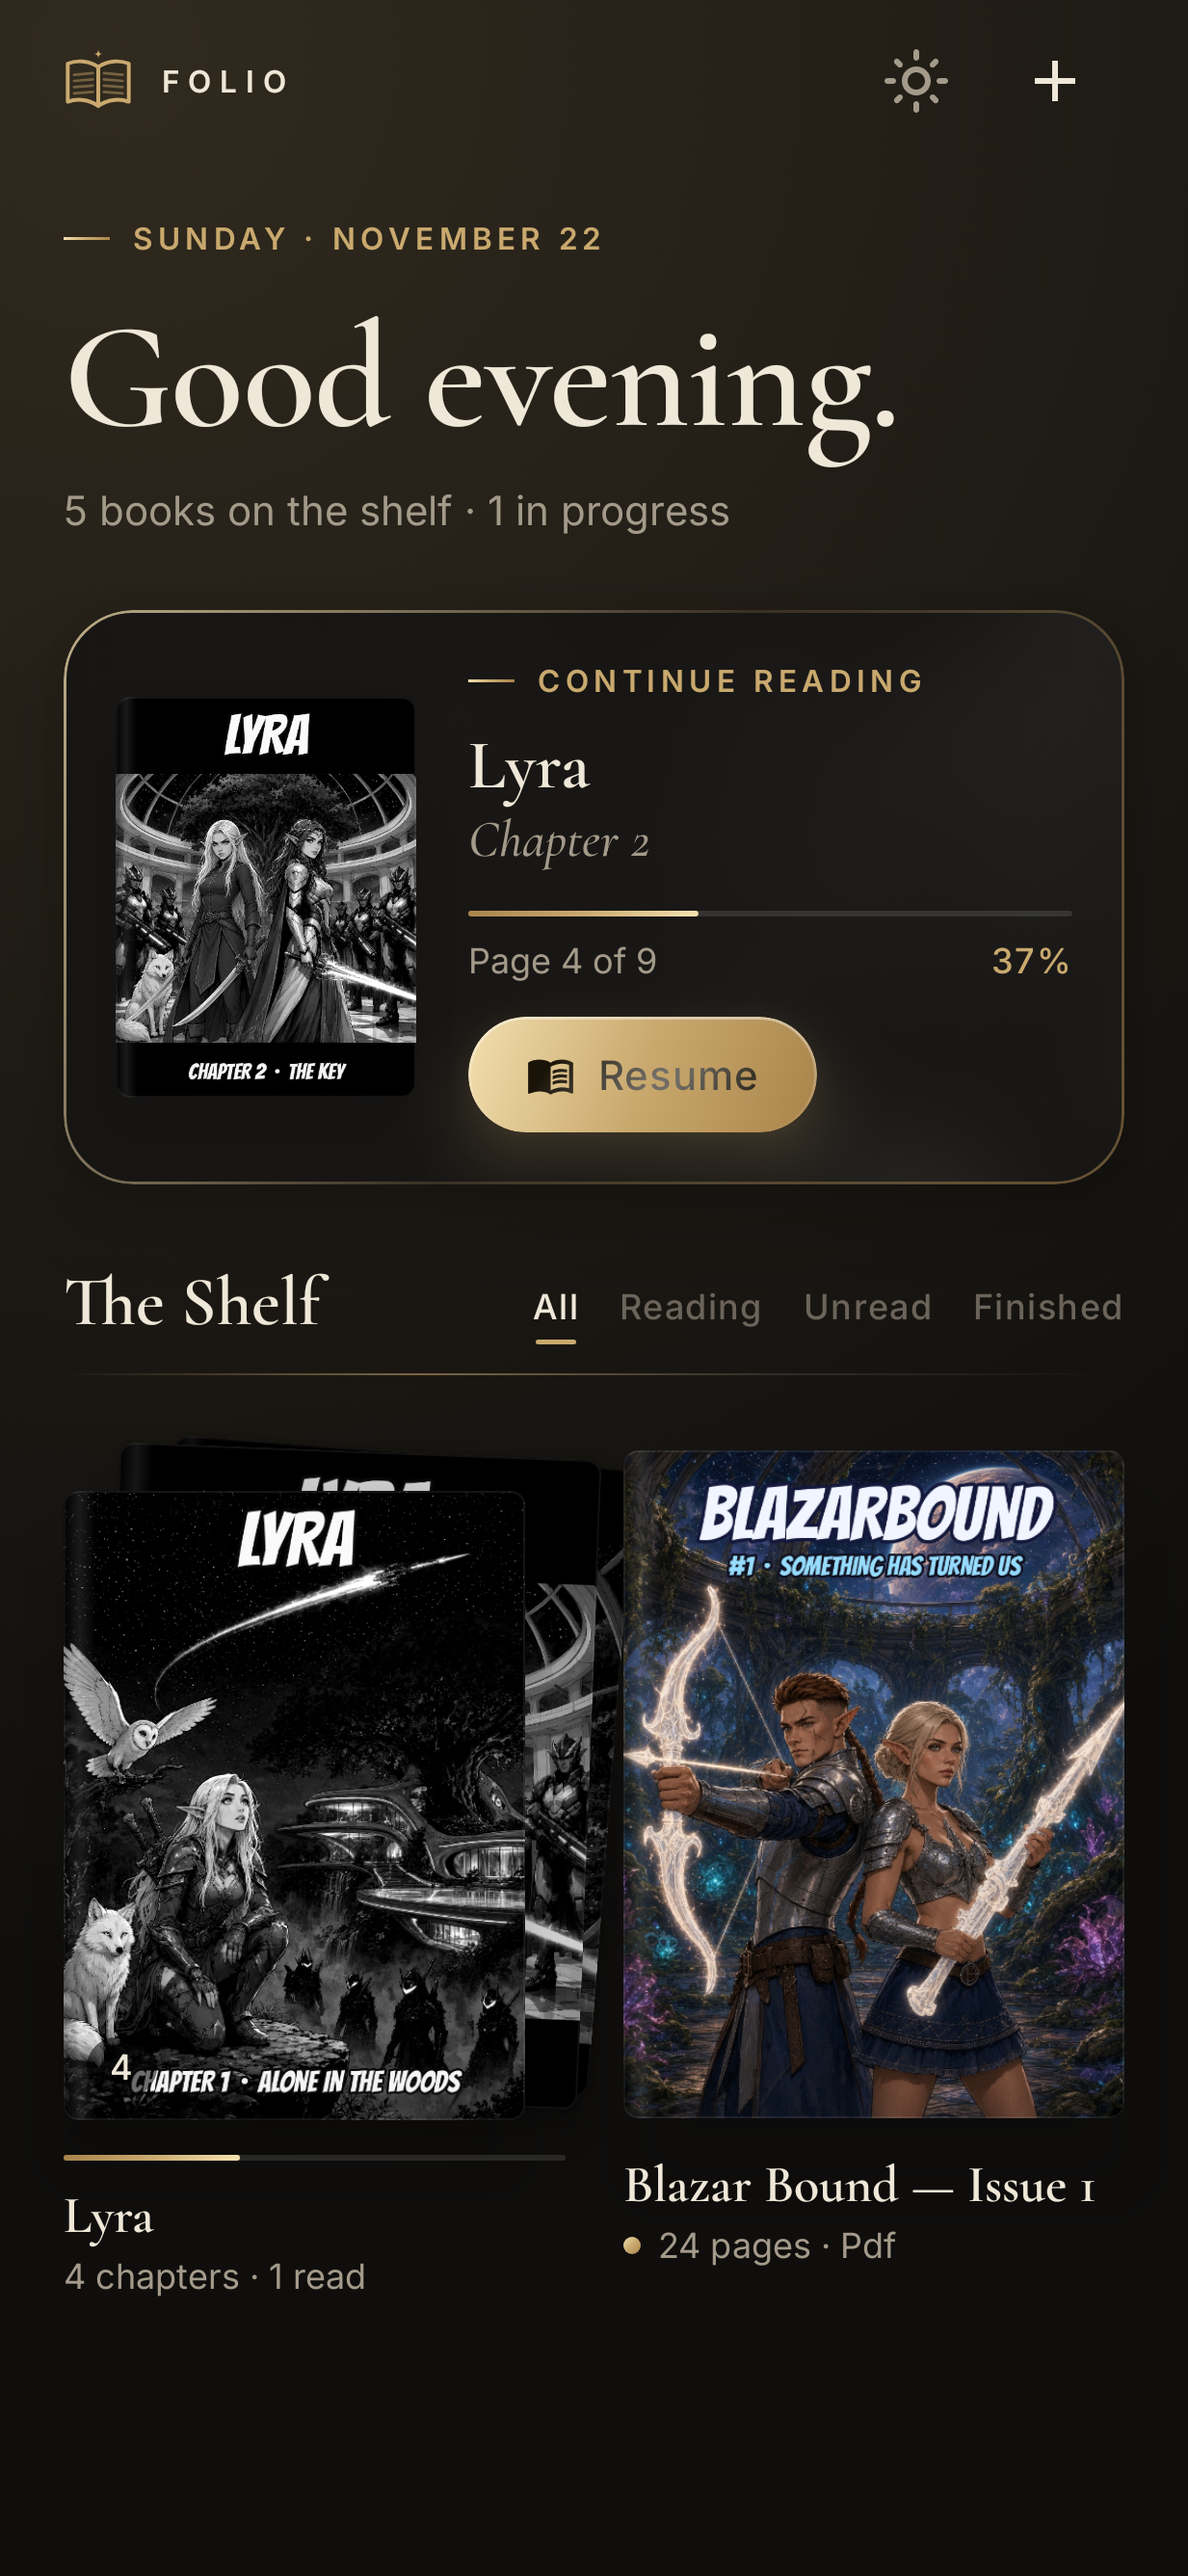
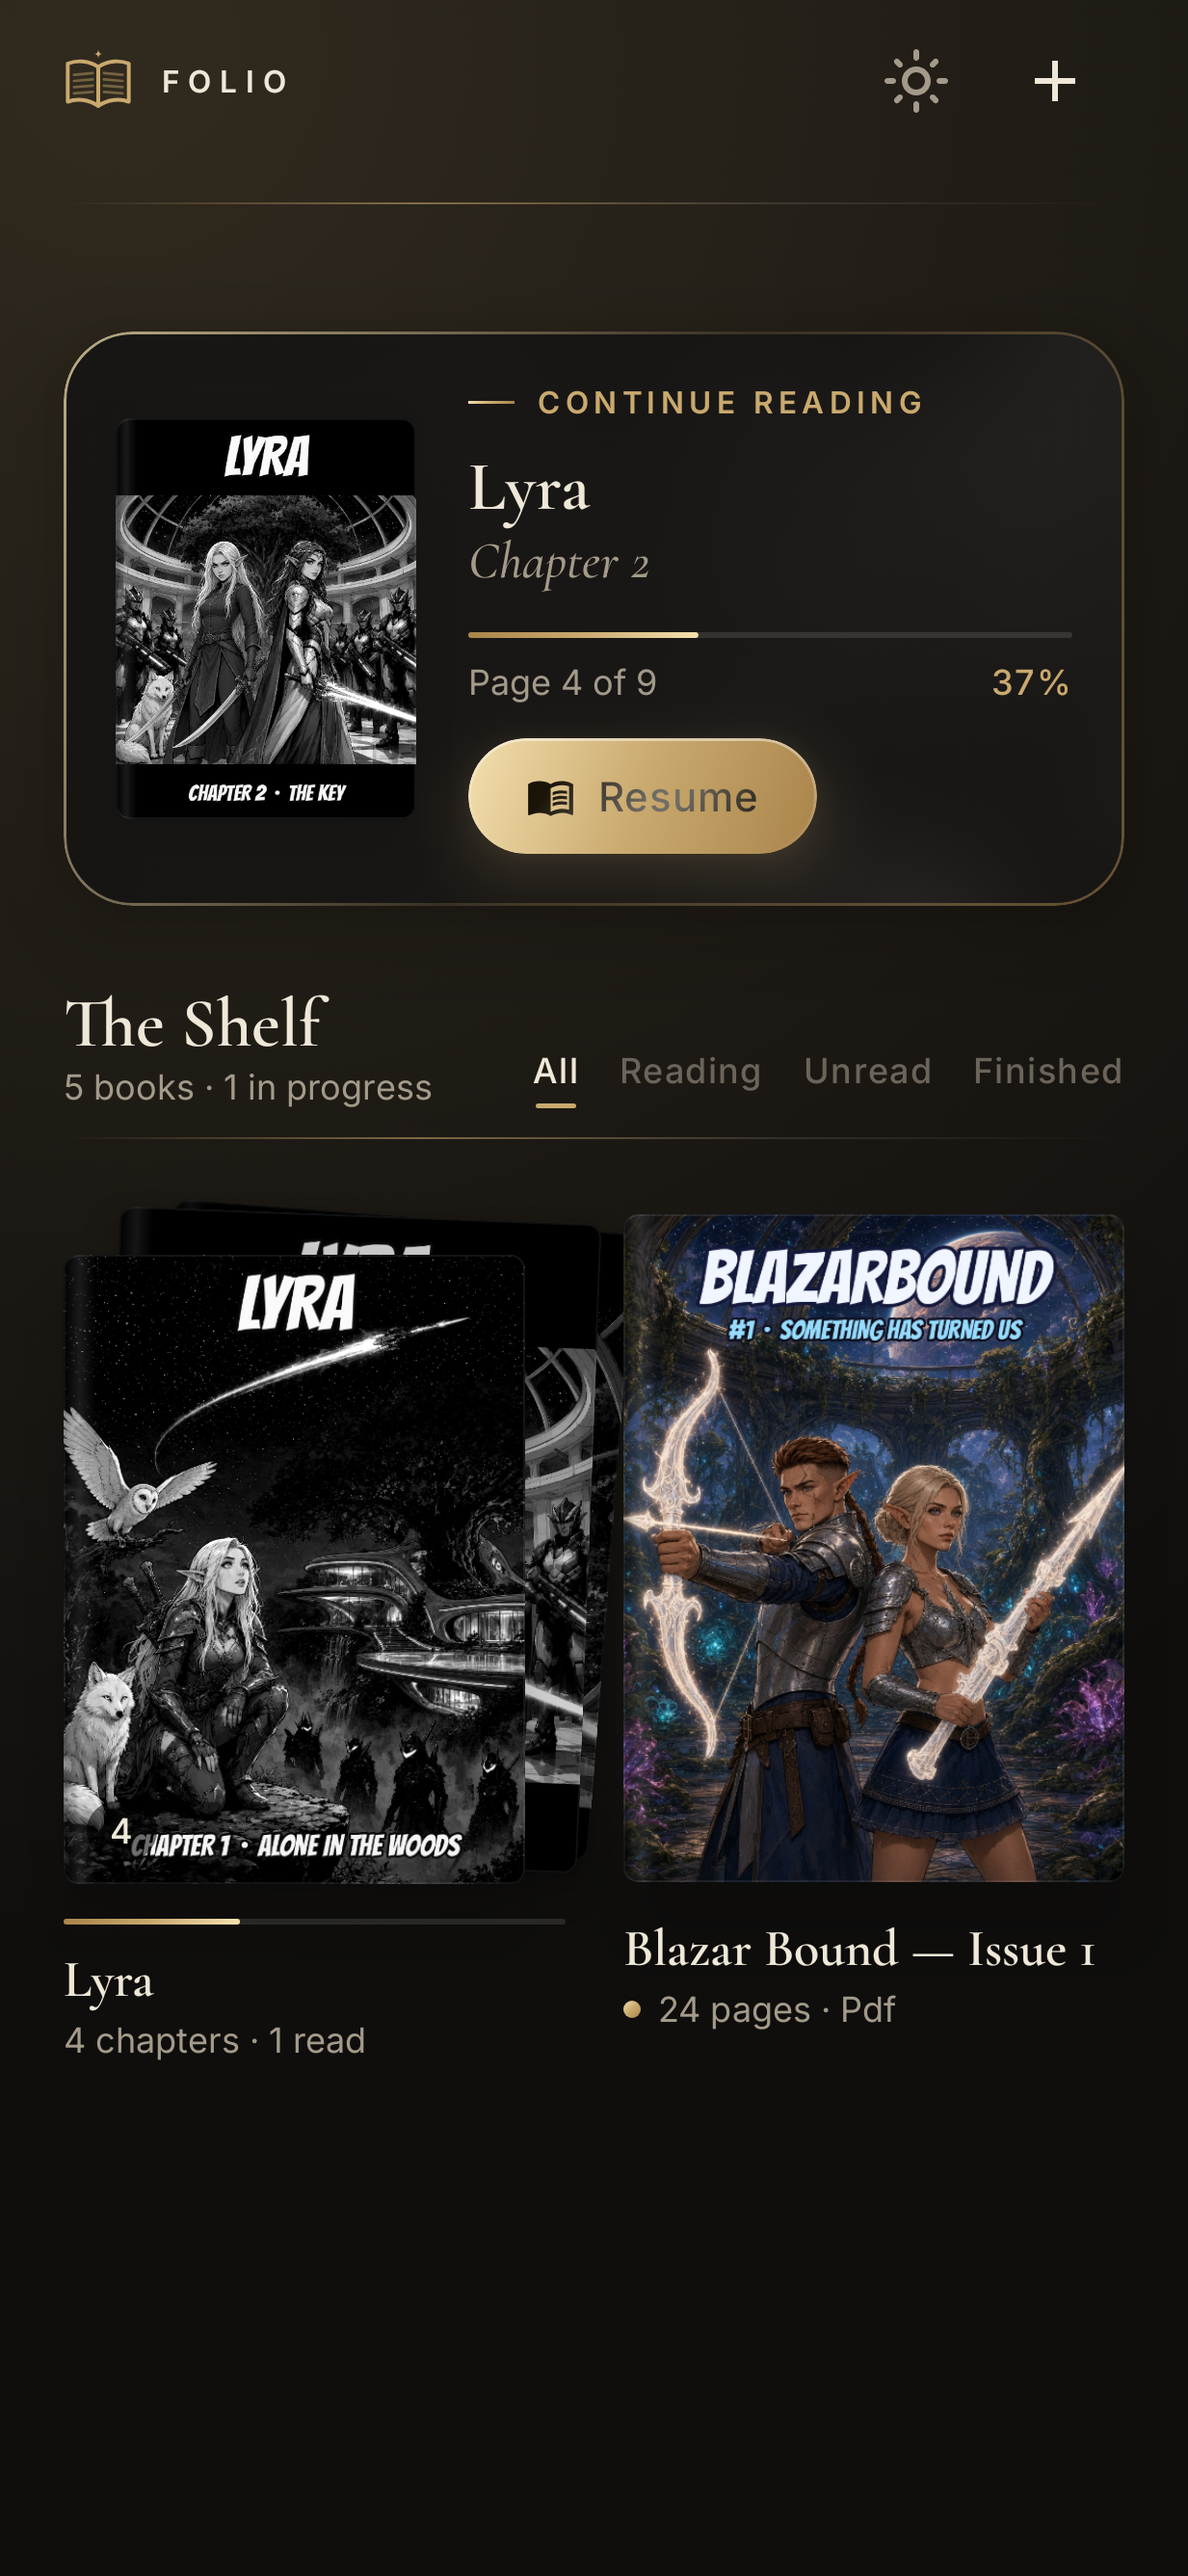
Shelf header: drop the time-of-day greeting and date line; FOLIO wordmark + gold rule lead into Continue Reading; book count moves under The Shelf
Refreshed polish_after shots and contact sheet (tools/contact_sheet.py).

diff --git a/app/src/main/java/net/blazarforce/folio/ui/library/LibraryScreen.kt b/app/src/main/java/net/blazarforce/folio/ui/library/LibraryScreen.kt
@@ -97,7 +97,6 @@ import net.blazarforce.folio.ui.common.springPress
 import net.blazarforce.folio.ui.common.staggeredEntrance
 import androidx.compose.foundation.lazy.grid.itemsIndexed
 import net.blazarforce.folio.ui.theme.LocalPalette
-import java.util.Calendar
 
 enum class ShelfFilter(val label: String) { ALL("All"), READING("Reading"), UNREAD("Unread"), FINISHED("Finished") }
 
@@ -106,12 +105,6 @@ private fun Book.matches(f: ShelfFilter) = when (f) {
     ShelfFilter.READING -> inProgress
     ShelfFilter.UNREAD -> !started
     ShelfFilter.FINISHED -> finished
-}
-
-fun greeting(hour: Int = Calendar.getInstance().get(Calendar.HOUR_OF_DAY)) = when (hour) {
-    in 5..11 -> "Good morning"
-    in 12..17 -> "Good afternoon"
-    else -> "Good evening"
 }
 
 @Composable
@@ -126,7 +119,6 @@ fun LibraryScreen(
     onOpenSeries: (String) -> Unit,
     onLongPress: (Book) -> Unit,
     onDiscover: (() -> Unit)? = null,
-    hour: Int = Calendar.getInstance().get(Calendar.HOUR_OF_DAY),
 ) {
     val p = LocalPalette.current
     val entrance = rememberEntranceTracker()
@@ -154,20 +146,9 @@ fun LibraryScreen(
             item(span = { GridItemSpan(maxLineSpan) }, key = "brand") {
                 Column(Modifier.statusBarsPadding()) {
                     BrandBar(theme, importing, onToggleTheme, onImportFiles, onImportFolder, inset = false)
-                    Spacer(Modifier.height(20.dp))
-                    DashEyebrow(java.text.SimpleDateFormat("EEEE · MMMM d", java.util.Locale.getDefault()).format(java.util.Date()).uppercase())
-                    Spacer(Modifier.height(10.dp))
-                    Text("${greeting(hour)}.", style = MaterialTheme.typography.displayLarge, color = p.text)
-                    Spacer(Modifier.height(6.dp))
-                    val reading = books.count { it.inProgress }
-                    Text(
-                        buildString {
-                            append(if (books.size == 1) "One book" else "${books.size} books")
-                            append(" on the shelf")
-                            if (reading > 0) append(" · $reading in progress")
-                        },
-                        style = MaterialTheme.typography.bodyMedium, color = p.muted,
-                    )
+                    Spacer(Modifier.height(14.dp))
+                    GoldRule()
+                    Spacer(Modifier.height(18.dp))
                 }
             }
             if (continueBook != null) {
@@ -178,7 +159,17 @@ fun LibraryScreen(
             item(span = { GridItemSpan(maxLineSpan) }, key = "filters") {
                 Column {
                     Row(verticalAlignment = Alignment.Bottom) {
-                        Text("The Shelf", style = MaterialTheme.typography.headlineSmall, color = p.text)
+                        Column {
+                            Text("The Shelf", style = MaterialTheme.typography.headlineSmall, color = p.text)
+                            val reading = books.count { it.inProgress }
+                            Text(
+                                buildString {
+                                    append(if (books.size == 1) "One book" else "${books.size} books")
+                                    if (reading > 0) append(" · $reading in progress")
+                                },
+                                style = MaterialTheme.typography.bodySmall, color = p.muted,
+                            )
+                        }
                         Spacer(Modifier.weight(1f))
                         FilterTabs(filter) { filter = it }
                     }

diff --git a/app/src/test/java/net/blazarforce/folio/ScreenshotTest.kt b/app/src/test/java/net/blazarforce/folio/ScreenshotTest.kt
@@ -135,7 +135,7 @@ class ScreenshotTest {
         val list = library()
         compose.setContent {
             FolioTheme(theme, motion = still) {
-                LibraryScreen(list, theme, false, {}, {}, {}, {}, {}, {}, hour = 20)
+                LibraryScreen(list, theme, false, {}, {}, {}, {}, {}, {})
             }
         }
         snap(name)

diff --git a/tools/contact_sheet.py b/tools/contact_sheet.py
@@ -1,0 +1,31 @@
+"""Builds screenshots/polish_contact_sheet.png from before/after shot folders (1.1 vs 1.2)."""
+from PIL import Image, ImageDraw, ImageFont
+import os, glob, sys
+B = os.environ.get("BEFORE", "/workspace/folio-shots/before")
+A = os.environ.get("AFTER", "/workspace/folio-shots/after")
+OUT = sys.argv[1] if len(sys.argv) > 1 else "screenshots/polish_contact_sheet.png"
+names = sorted(os.listdir(A))
+serif = "/usr/share/fonts/truetype/dejavu/DejaVuSerif-Bold.ttf"
+sans = (glob.glob("/usr/share/fonts/truetype/sand-box/google/Inter/Inter-Variable*") or [serif])[0]
+F1, F2, F3 = ImageFont.truetype(serif, 46), ImageFont.truetype(sans, 22), ImageFont.truetype(sans, 18)
+TH, MW = 560, 259
+def thumb(p):
+    im = Image.open(p).convert("RGB"); r = min(TH / im.height, MW / im.width)
+    return im.resize((int(im.width * r), int(im.height * r)), Image.LANCZOS)
+CW, CH = MW * 2 + 12, TH + 70
+cells = []
+for n in names:
+    a = thumb(f"{A}/{n}"); bp = f"{B}/{n}"; b = thumb(bp) if os.path.exists(bp) else None
+    c = Image.new("RGB", (CW, CH), (22, 19, 15)); d = ImageDraw.Draw(c)
+    d.text((0, 4), f"{n[:2]}  " + n[3:-4].replace("_", " "), font=F2, fill=(233, 207, 150))
+    def put(im, x, lab, col):
+        c.paste(im, (x + (MW - im.width) // 2, 36 + (TH - im.height) // 2)); d.text((x + 4, TH + 42), lab, font=F3, fill=col)
+    if b: put(b, 0, "BEFORE (1.1)", (150, 140, 125)); put(a, MW + 12, "AFTER (1.2)", (233, 207, 150))
+    else: put(a, (CW - MW) // 2, "NEW IN 1.2", (233, 207, 150))
+    cells.append(c)
+cols, pad = 5, 36; rows = (len(cells) + cols - 1) // cols
+sheet = Image.new("RGB", (cols * CW + (cols + 1) * pad, 150 + rows * (CH + pad) + pad), (12, 11, 10)); d = ImageDraw.Draw(sheet)
+d.text((pad, 40), "Folio 1.2 — UI polish: before / after", font=F1, fill=(243, 223, 174))
+d.text((pad, 100), "Ink & gold · paper theme kept · same catalog data (Lyra chapters 1–4) · 17–20 are new states", font=F2, fill=(170, 160, 140))
+for i, c in enumerate(cells): sheet.paste(c, (pad + (i % cols) * (CW + pad), 150 + (i // cols) * (CH + pad)))
+sheet.save(OUT, optimize=True); print(OUT, sheet.size)
